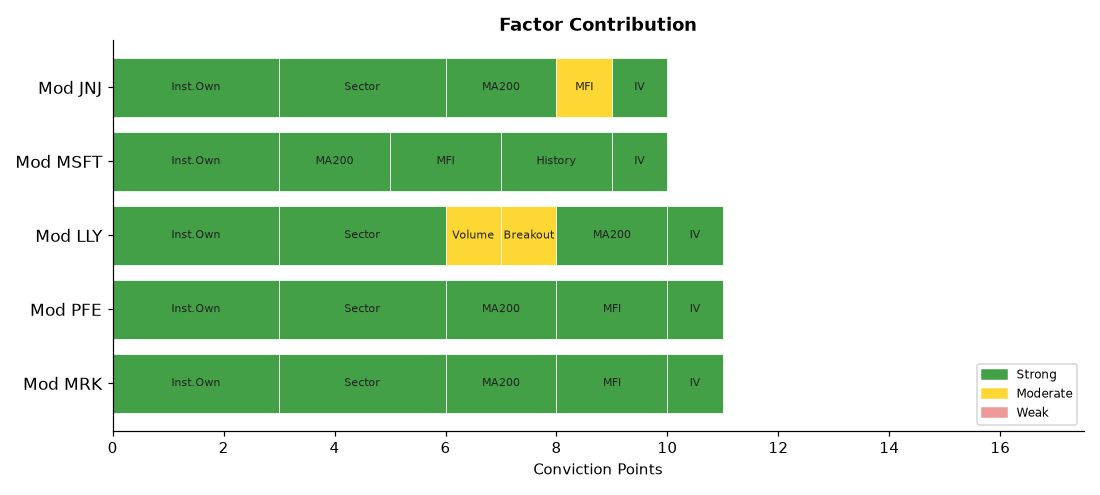
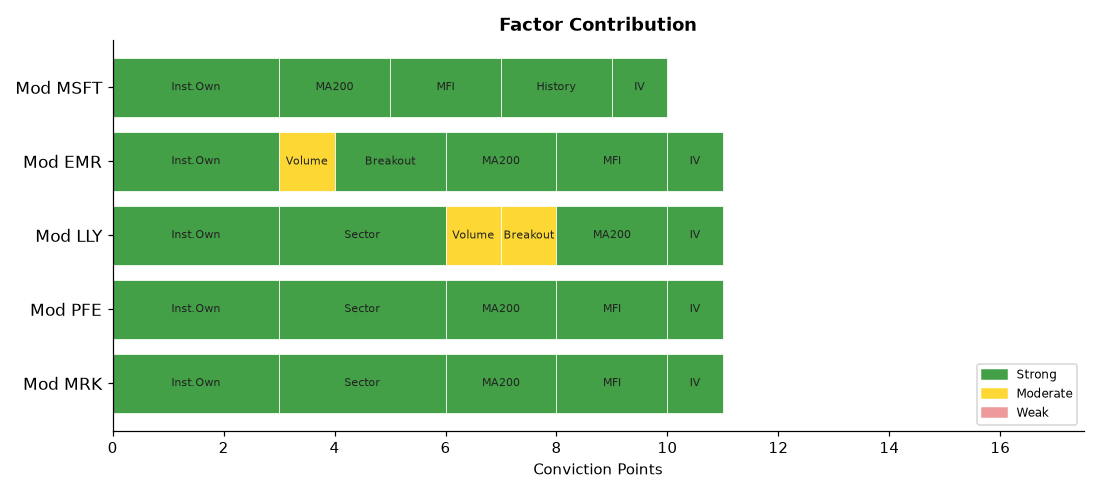
deploy: b7fadf5b06deb90e7ebb92f278722414bdd9750d

diff --git a/index.html b/index.html
@@ -4,7 +4,7 @@
   <meta charset="UTF-8">
   <meta name="viewport" content="width=device-width,initial-scale=1">
   <meta http-equiv="Cache-Control" content="no-cache,no-store,must-revalidate">
-  <title>Stock Breakout Screener — 2026-08-05 20:56</title>
+  <title>Stock Breakout Screener — 2026-08-05 22:52</title>
   <style>
     *{box-sizing:border-box;margin:0;padding:0}
     body{font-family:'Segoe UI',Arial,sans-serif;background:#f0f2f5;
@@ -34,7 +34,7 @@
 
 <div class="hdr">
   <h1>📈 Stock Breakout Screener</h1>
-  <p>Updated: 2026-08-05 20:56 UTC &nbsp;·&nbsp; Phase: After-Hours (4:00–8:00 PM ET) &nbsp;·&nbsp;
+  <p>Updated: 2026-08-05 22:52 UTC &nbsp;·&nbsp; Phase: After-Hours (4:00–8:00 PM ET) &nbsp;·&nbsp;
      129 stocks screened &nbsp;·&nbsp; Top 5 by conviction score</p>
 </div>
 
@@ -69,7 +69,7 @@
             </span>
           </div>
           <ul style="margin:0;padding-left:18px;font-size:13px;
-                     color:#333;line-height:1.8"><li style="margin:5px 0"><span style="background:#ffebee;color:#b71c1c;padding:2px 7px;border-radius:4px;font-size:11px;">❌</span> Volume: <b>0.8× average</b> — Above-average activity</li><li style="margin:5px 0"><span style="background:#ffebee;color:#b71c1c;padding:2px 7px;border-radius:4px;font-size:11px;">❌</span> Candle: close <b>$128.33</b> vs open <b>$129.41</b> (-0.8%) — regular market close</li><li style="margin:5px 0"><span style="background:#e8f5e9;color:#2e7d32;padding:2px 7px;border-radius:4px;font-size:11px;">✅</span> 200-Day MA: price <b>$128.33</b> vs MA <b>$118.89</b> — <b>✅ Above</b> long-term trend</li><li style="margin:5px 0"><span style="background:#e8f5e9;color:#2e7d32;padding:2px 7px;border-radius:4px;font-size:11px;">✅</span> Inst. ownership: <b>82.0%</b> · MFI: <b>62.4</b> · Market cap: <b>N/A</b></li></ul>
+                     color:#333;line-height:1.8"><li style="margin:5px 0"><span style="background:#ffebee;color:#b71c1c;padding:2px 7px;border-radius:4px;font-size:11px;">❌</span> Volume: <b>0.9× average</b> — Above-average activity</li><li style="margin:5px 0"><span style="background:#ffebee;color:#b71c1c;padding:2px 7px;border-radius:4px;font-size:11px;">❌</span> Candle: close <b>$128.33</b> vs open <b>$129.41</b> (-0.8%) — regular market close</li><li style="margin:5px 0"><span style="background:#e8f5e9;color:#2e7d32;padding:2px 7px;border-radius:4px;font-size:11px;">✅</span> 200-Day MA: price <b>$128.33</b> vs MA <b>$118.89</b> — <b>✅ Above</b> long-term trend</li><li style="margin:5px 0"><span style="background:#e8f5e9;color:#2e7d32;padding:2px 7px;border-radius:4px;font-size:11px;">✅</span> Inst. ownership: <b>82.0%</b> · MFI: <b>63.0</b> · Market cap: <b>N/A</b></li></ul>
         </div>
         <div style="background:#fff;border:1px solid #ddd;border-radius:10px;
                     padding:16px 20px;margin-bottom:12px;
@@ -111,7 +111,24 @@
           <div style="display:flex;align-items:center;gap:10px;
                       flex-wrap:wrap;margin-bottom:10px">
             <span style="font-size:22px">🟡</span>
-            <span style="font-size:19px;font-weight:700">4. MSFT</span>
+            <span style="font-size:19px;font-weight:700">4. EMR</span>
+            <span style="font-size:12px;color:#666">Industrials</span>
+            <span style="margin-left:auto;background:#1a237e;color:#fff;
+                         padding:3px 12px;border-radius:12px;
+                         font-size:13px;font-weight:600">
+              11/17
+            </span>
+          </div>
+          <ul style="margin:0;padding-left:18px;font-size:13px;
+                     color:#333;line-height:1.8"><li style="margin:5px 0"><span style="background:#fffde7;color:#f57f17;padding:2px 7px;border-radius:4px;font-size:11px;">⚠</span> Volume: <b>1.6× average</b> — Above-average activity</li><li style="margin:5px 0"><span style="background:#e8f5e9;color:#2e7d32;padding:2px 7px;border-radius:4px;font-size:11px;">✅</span> Candle: close <b>$162.47</b> vs open <b>$157.27</b> (+3.3%) — regular market close</li><li style="margin:5px 0"><span style="background:#e8f5e9;color:#2e7d32;padding:2px 7px;border-radius:4px;font-size:11px;">✅</span> 200-Day MA: price <b>$162.47</b> vs MA <b>$141.19</b> — <b>✅ Above</b> long-term trend</li><li style="margin:5px 0"><span style="background:#e8f5e9;color:#2e7d32;padding:2px 7px;border-radius:4px;font-size:11px;">✅</span> Inst. ownership: <b>85.3%</b> · MFI: <b>87.8</b> · Market cap: <b>$91.0B</b></li></ul>
+        </div>
+        <div style="background:#fff;border:1px solid #ddd;border-radius:10px;
+                    padding:16px 20px;margin-bottom:12px;
+                    box-shadow:0 2px 6px rgba(0,0,0,.07)">
+          <div style="display:flex;align-items:center;gap:10px;
+                      flex-wrap:wrap;margin-bottom:10px">
+            <span style="font-size:22px">🟡</span>
+            <span style="font-size:19px;font-weight:700">5. MSFT</span>
             <span style="font-size:12px;color:#666">Technology</span>
             <span style="margin-left:auto;background:#1a237e;color:#fff;
                          padding:3px 12px;border-radius:12px;
@@ -121,23 +138,6 @@
           </div>
           <ul style="margin:0;padding-left:18px;font-size:13px;
                      color:#333;line-height:1.8"><li style="margin:5px 0"><span style="background:#ffebee;color:#b71c1c;padding:2px 7px;border-radius:4px;font-size:11px;">❌</span> Volume: <b>0.8× average</b> — Above-average activity</li><li style="margin:5px 0"><span style="background:#ffebee;color:#b71c1c;padding:2px 7px;border-radius:4px;font-size:11px;">❌</span> Candle: close <b>$487.46</b> vs open <b>$496.36</b> (-1.8%) — regular market close</li><li style="margin:5px 0"><span style="background:#e8f5e9;color:#2e7d32;padding:2px 7px;border-radius:4px;font-size:11px;">✅</span> 200-Day MA: price <b>$487.46</b> vs MA <b>$401.43</b> — <b>✅ Above</b> long-term trend</li><li style="margin:5px 0"><span style="background:#e8f5e9;color:#2e7d32;padding:2px 7px;border-radius:4px;font-size:11px;">✅</span> Inst. ownership: <b>75.4%</b> · MFI: <b>73.2</b> · Market cap: <b>$3619.7B</b></li><li style="margin:5px 0"><span style="background:#e8f5e9;color:#2e7d32;padding:2px 7px;border-radius:4px;font-size:11px;">✅</span> Last similar breakout: <b>Jul 30, 2026</b> → <b>+8.1%</b> over 10 trading days</li></ul>
-        </div>
-        <div style="background:#fff;border:1px solid #ddd;border-radius:10px;
-                    padding:16px 20px;margin-bottom:12px;
-                    box-shadow:0 2px 6px rgba(0,0,0,.07)">
-          <div style="display:flex;align-items:center;gap:10px;
-                      flex-wrap:wrap;margin-bottom:10px">
-            <span style="font-size:22px">🟡</span>
-            <span style="font-size:19px;font-weight:700">5. JNJ</span>
-            <span style="font-size:12px;color:#666">Healthcare</span>
-            <span style="margin-left:auto;background:#1a237e;color:#fff;
-                         padding:3px 12px;border-radius:12px;
-                         font-size:13px;font-weight:600">
-              10/17
-            </span>
-          </div>
-          <ul style="margin:0;padding-left:18px;font-size:13px;
-                     color:#333;line-height:1.8"><li style="margin:5px 0"><span style="background:#ffebee;color:#b71c1c;padding:2px 7px;border-radius:4px;font-size:11px;">❌</span> Volume: <b>0.5× average</b> — Above-average activity</li><li style="margin:5px 0"><span style="background:#ffebee;color:#b71c1c;padding:2px 7px;border-radius:4px;font-size:11px;">❌</span> Candle: close <b>$257.59</b> vs open <b>$255.25</b> (+0.9%) — regular market close</li><li style="margin:5px 0"><span style="background:#e8f5e9;color:#2e7d32;padding:2px 7px;border-radius:4px;font-size:11px;">✅</span> 200-Day MA: price <b>$257.59</b> vs MA <b>$239.76</b> — <b>✅ Above</b> long-term trend</li><li style="margin:5px 0"><span style="background:#e8f5e9;color:#2e7d32;padding:2px 7px;border-radius:4px;font-size:11px;">✅</span> Inst. ownership: <b>76.8%</b> · MFI: <b>53.1</b> · Market cap: <b>$620.8B</b></li></ul>
         </div>
 
 
@@ -169,14 +169,14 @@
         <tr>
           <td style="font-weight:700;text-align:left;padding-left:10px">
             🟡 MRK</td>
-          <td style="background:#ffcdd2">0.8×</td>
+          <td style="background:#ffcdd2">0.9×</td>
           <td style="background:#ffcdd2">-0.8%</td>
           <td style="background:#c8e6c9">
             ▲ Above</td>
           <td style="background:#c8e6c9">
             82.0%</td>
           <td style="background:#c8e6c9">
-            62.4</td>
+            63.0</td>
           <td style="background:#c8e6c9">Healthcare</td>
           <td style="background:#c8e6c9">
             72.7%</td>
@@ -222,6 +222,24 @@
         </tr>
         <tr>
           <td style="font-weight:700;text-align:left;padding-left:10px">
+            🟡 EMR</td>
+          <td style="background:#fff9c4">1.6×</td>
+          <td style="background:#c8e6c9">+3.3%</td>
+          <td style="background:#c8e6c9">
+            ▲ Above</td>
+          <td style="background:#c8e6c9">
+            85.3%</td>
+          <td style="background:#c8e6c9">
+            87.8</td>
+          <td style="background:#ffcdd2">Industrials</td>
+          <td style="background:#c8e6c9">
+            135.6%</td>
+          <td style="background:#ffcdd2">
+            N/A</td>
+          <td style="font-weight:800;font-size:15px">11/17</td>
+        </tr>
+        <tr>
+          <td style="font-weight:700;text-align:left;padding-left:10px">
             🟡 MSFT</td>
           <td style="background:#ffcdd2">0.8×</td>
           <td style="background:#ffcdd2">-1.8%</td>
@@ -236,24 +254,6 @@
             167.4%</td>
           <td style="background:#c8e6c9">
             +8.1%</td>
-          <td style="font-weight:800;font-size:15px">10/17</td>
-        </tr>
-        <tr>
-          <td style="font-weight:700;text-align:left;padding-left:10px">
-            🟡 JNJ</td>
-          <td style="background:#ffcdd2">0.5×</td>
-          <td style="background:#ffcdd2">+0.9%</td>
-          <td style="background:#c8e6c9">
-            ▲ Above</td>
-          <td style="background:#c8e6c9">
-            76.8%</td>
-          <td style="background:#fff9c4">
-            53.1</td>
-          <td style="background:#c8e6c9">Healthcare</td>
-          <td style="background:#c8e6c9">
-            101.2%</td>
-          <td style="background:#ffcdd2">
-            N/A</td>
           <td style="font-weight:800;font-size:15px">10/17</td>
         </tr>
 </table>
@@ -367,7 +367,7 @@
         <li><b>Scoring weights:</b>
             Inst.Own(3) · Sector(3) · Volume(2) · Breakout(2) ·
             MA200(2) · MFI(2) · History(2) · IV(1) = 17pts max</li>
-        <li><b>Run time:</b> 2026-08-05 20:56 UTC — Market phase: After-Hours (4:00–8:00 PM ET)</li>
+        <li><b>Run time:</b> 2026-08-05 22:52 UTC — Market phase: After-Hours (4:00–8:00 PM ET)</li>
       </ul>
     </div>
 
